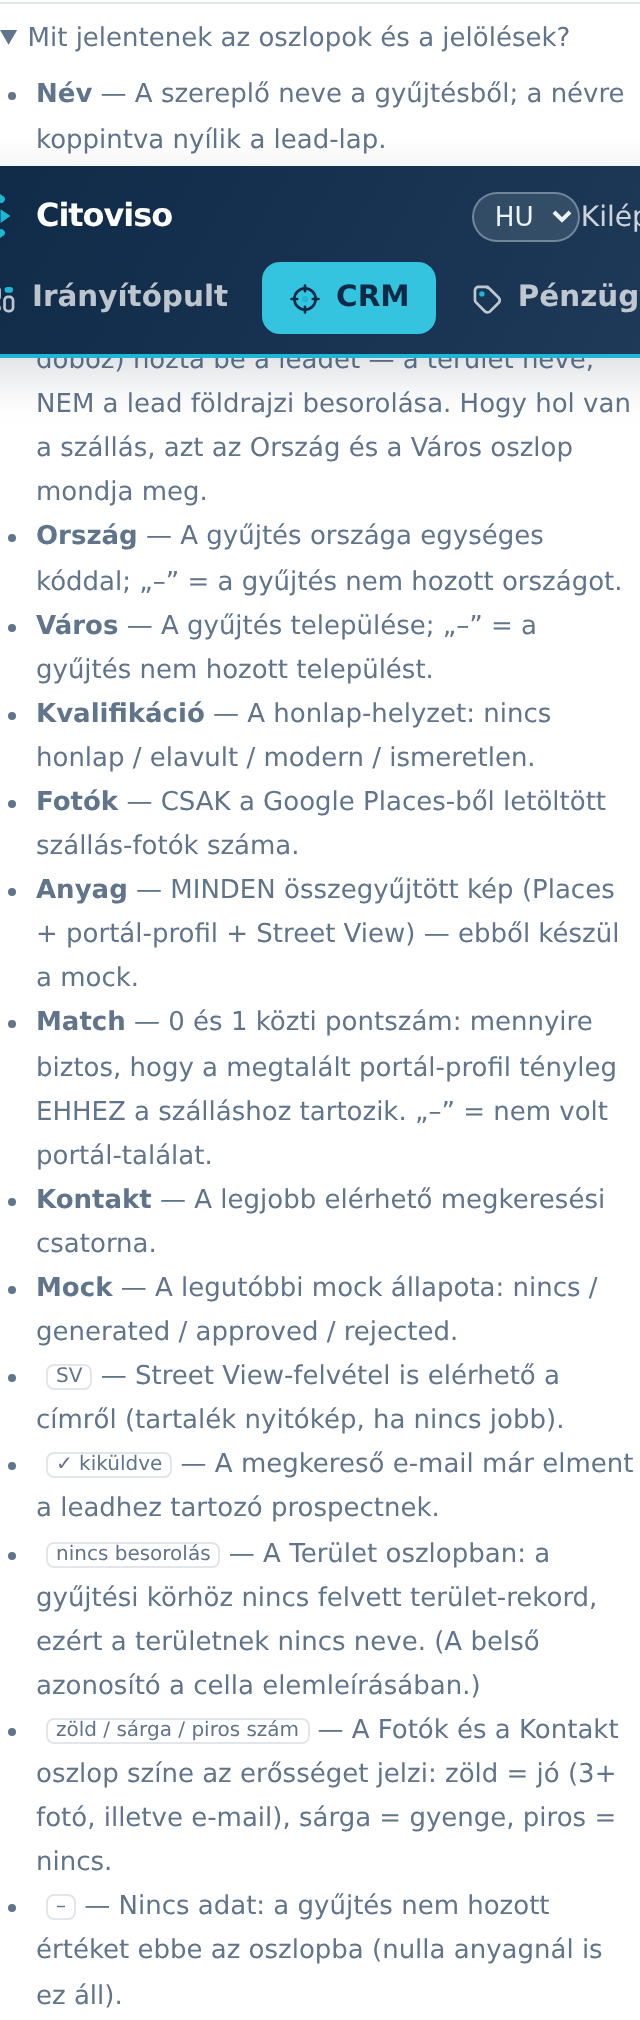
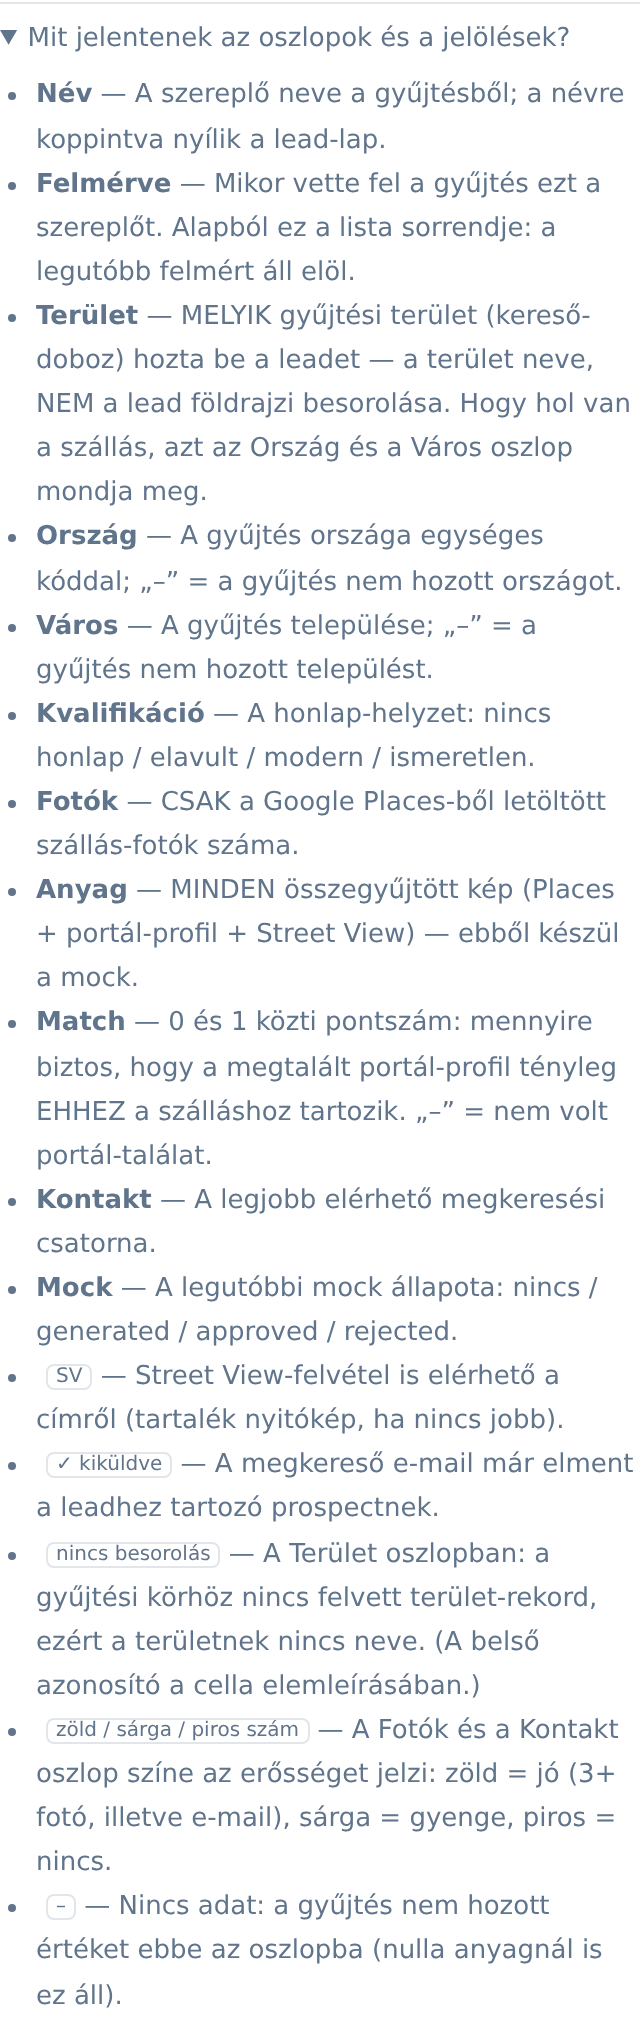
fix(kb): öt rés, amit a deploy-kapu fogott — köztük egy, amit a saját képünk cáfolt
A tudasbazis-or FLAG-je az eacf4a6..8cfc499 tartományon. Mind az öt valós:

① console-leads: „Minden oszlop szűrhető és rendezhető" — a ma bevezetett FELMÉRVE
   oszlopnak NINCS szűrője (leadFilters.ts: a LEAD_FILTERS nem tartalmazza), csak
   rendezése. A saját mellékelt képünk cáfolta a mondatot: a fejléc mellett nincs
   szűrő-ikon. Átírva, és kimondva, mit tegyen, aki időszakra szűkítene.

② console-lead: a lead-lap tény-sávjában a „Régió" a NYERS gyűjtés-azonosítót mutatja
   (views.ts:3148 → d.region). A d7b8438 a LISTÁN javította ezt az értelmezést
   („a terület a gyűjtés doboza, nem a lead földrajza"), a lapon viszont maradt —
   és a KB földrajzként írta le. Most kimondja: egy „balaton-north" dobozba déli parti
   és parttól távoli település is kerülhet, mert a doboz a keresési terület.
   ⚠ A LAP nyers megjelenítése külön, nyitott tétel marad — ez itt a súgó javítása.

③ A generálás KÉSZ-állapota súgó nélkül maradt: az 5aeeac2 valós szakasz-feliratokat
   („adatok betöltése" → „fotók gyűjtése és szűrése" → „szöveg generálása" →
   „oldal renderelése", „{done}/{total} mock kész") és MEGMARADÓ lezáró sávot hozott
   („Megnézem a mockot" · „Elrejtem"). A KB csak a futást és a bukást írta le —
   pont a commit lényege hiányzott.

④ admin-bookings: az 5aeeac2 szerzővel jelöli az idézet-dobozokat (Vendég · Ön ·
   Rendszer · Megjegyzés), és a vendég kérdése a döntés után is ott marad. Leírva.
[…]

Changed region(s): [[0.0, 0.0624, 1.0, 0.1871]]

diff --git a/kb/entries/admin-modules/entry.hu.md b/kb/entries/admin-modules/entry.hu.md
@@ -9,8 +9,8 @@ updated: 2026-09-13
 
 A **Modulok** fülön dönti el, milyen szolgáltatások legyenek az oldalán — például szoba-bemutató,
 árak vagy foglalási naptár. A fül két részből áll: fent **„Az én moduljaim”** (ami már az Öné),
-alatta **„Bővítés — amit még hozzáadhat”** (amit még választhat). Bármelyiket meg is nézheti a
-saját oldalán, mielőtt dönt.
+alatta **„Bővítés — amit még hozzáadhat”** (amit még választhat). Bármelyiket megnézheti
+előnézetben, mielőtt dönt.
 
 ![Képernyőkép: a Modulok fül telefonon](assets/hu/screen.png)
 
@@ -20,6 +20,11 @@ Minden modulnál ott a **„Megnézem”** gomb. Megnyílik a saját honlapja ú
 a modullal kinézne, és a kérdéses szakasz ki van emelve. Fent válthat a **„Mobil”** és az
 **„Asztali”** nézet között, a **„Teljes képernyő”** gombbal pedig kitölti az egész kijelzőt. A
 **„Bezárom”** gombbal lép vissza.
+
+⚠ **Ha a honlapja fel van függesztve** (rendezetlen díj miatt), a bővítés-kártyákon a gomb
+felirata **„Előnézet”**, és a bevezető nem ígéri, hogy a saját oldalán megnézheti — mert az
+oldal ilyenkor a látogatók számára nem elérhető. Amit lát, az így is valós előnézet; az oldal
+a díj rendezése után áll vissza.
 
 Ez csak előnézet: **nem élesít és nem kerül pénzbe**. A felül látható
 **„Előnézet — még nincs élesítve”** felirat mindig erre emlékeztet.

diff --git a/kb/entries/console-leads/entry.hu.md b/kb/entries/console-leads/entry.hu.md
@@ -98,8 +98,10 @@ szerepel benne.
   ehhez a szálláshoz tartozik. A „–” azt jelenti, nem volt portál-találat. Szűrhető („legalább”
   küszöbbel) és rendezhető is.
 
-Minden oszlop szűrhető és rendezhető is, egyetlen kivétellel: a **„Név”** oszlopban keresel
-(nem pipálsz), de rendezni azt is lehet.
+**Rendezni MINDEN oszlop szerint lehet** (a fejlécre koppintva). Szűrni majdnem mindegyik
+szerint — két kivétellel: a **„Név”** oszlopban keresel (nem pipálsz), a **„Felmérve”**
+oszlopnak pedig nincs szűrője, csak rendezése. Ha időszakra akarsz szűkíteni, rendezz a
+Felmérve szerint, és felülről olvasd a listát.
 - **„Kontakt”** — a legjobb csatorna a megkereséshez (e-mail / SMS / telefon / nincs).
 - **„Mock”** — a legutóbbi mock állapota: nincs / generated / approved / rejected.
 - **„Felmérve”** — mikor vette fel a gyűjtés a szereplőt. **Alapból ez a lista sorrendje**

diff --git a/kb/entries/admin-bookings/entry.hu.md b/kb/entries/admin-bookings/entry.hu.md
@@ -58,6 +58,12 @@ foglalást a **„Lemondom”** linkkel mondhat le (indoklást is írhat — a v
 A vendég maga is lemondhat a visszaigazoló levelében lévő linkkel — ilyenkor Ön kap e-mailt, és a
 napok automatikusan felszabadulnak.
 
+**Ki írta? — a sor megmondja.** Egy kérés alatt több üzenet is összegyűlhet, ezért mindegyik
+idézet-doboz megnevezi a szerzőjét: **„Vendég”** (amit a foglaláskor írt — ez a kérdése akkor is
+ott marad, ha már döntött), **„Ön”** (amit a visszaigazoláskor vagy elutasításkor küldött),
+**„Rendszer”** (amit a rendszer írt, például lejárat esetén) és **„Megjegyzés”** (a saját,
+csak Önnek szóló feljegyzése). Így nem kell fejben tartania, kinek a szavait olvassa.
+
 ## Hová érkeznek az értesítések?
 
 A kérésekről szóló e-maileket a Modulok → Foglalás beállításban megadott címre küldjük — több
